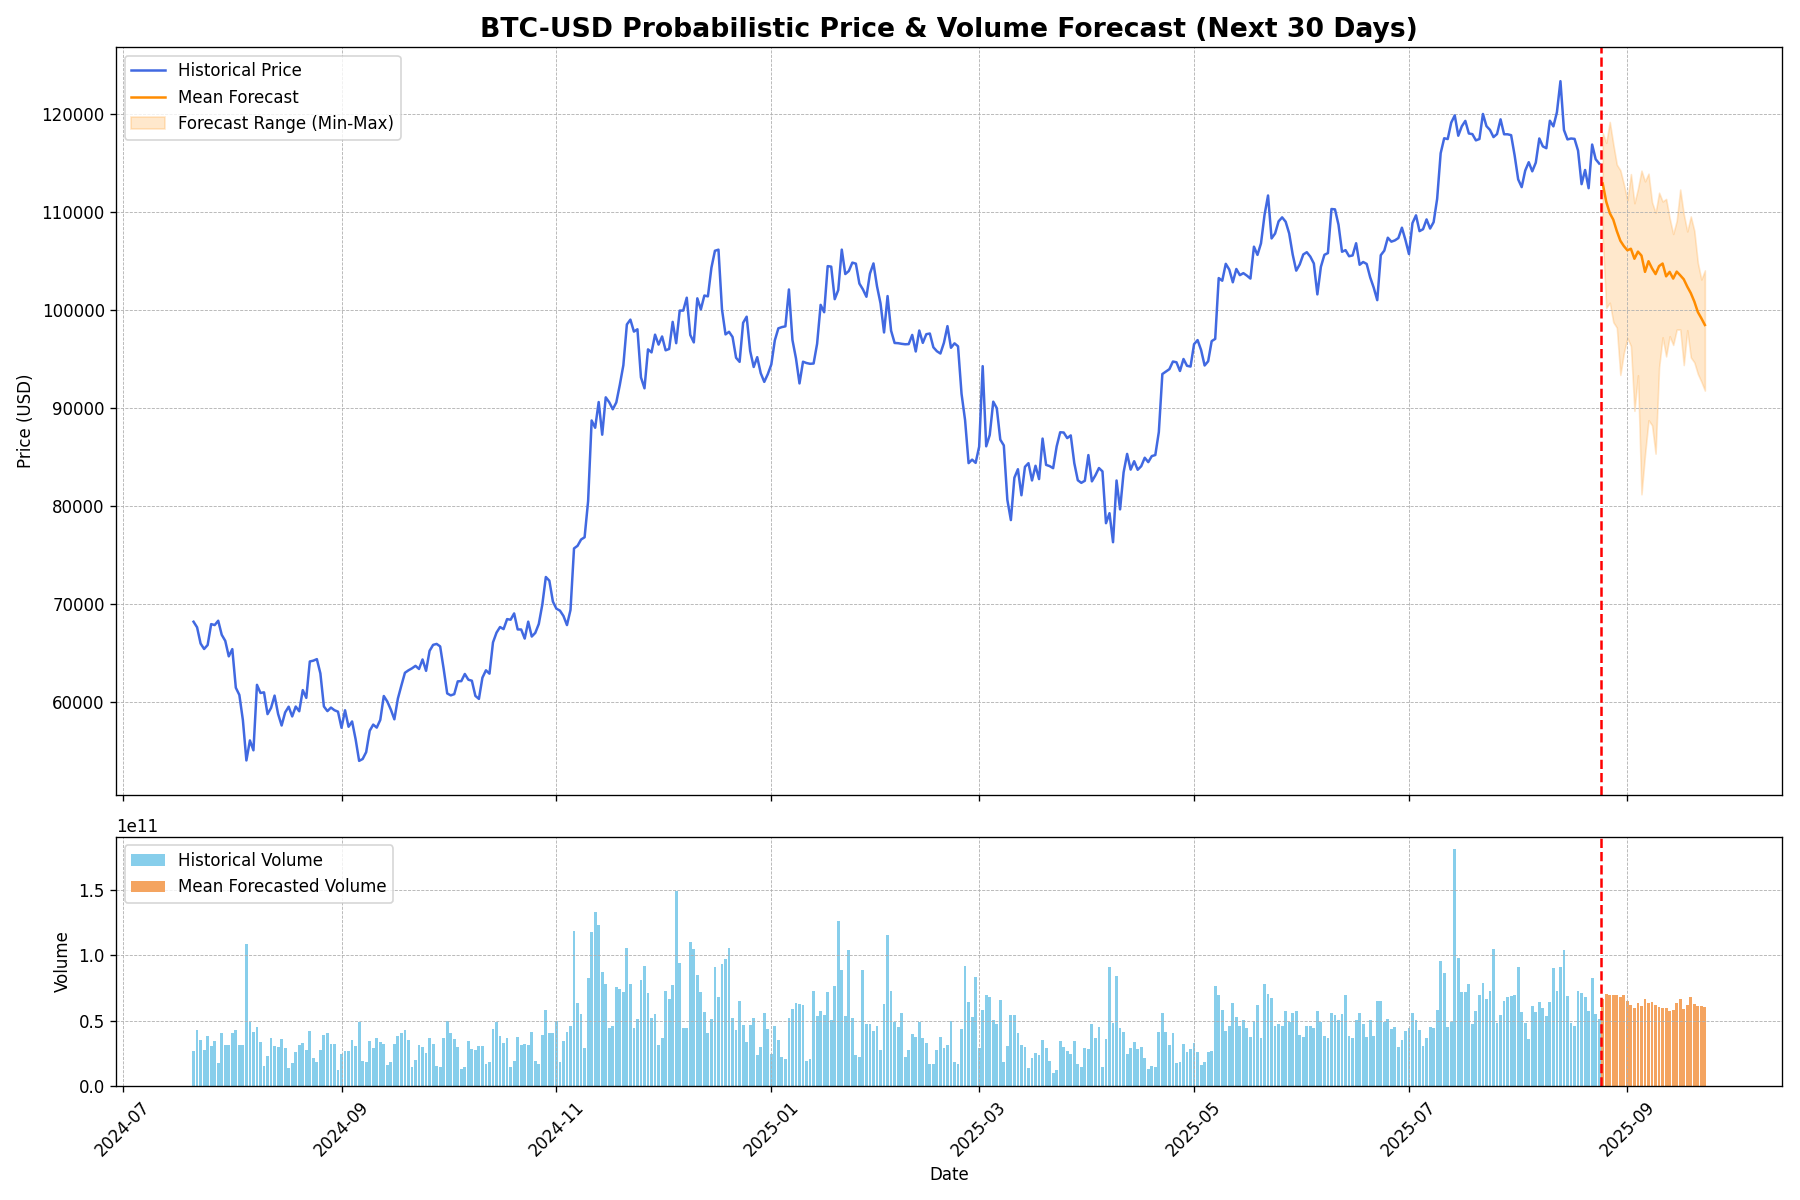
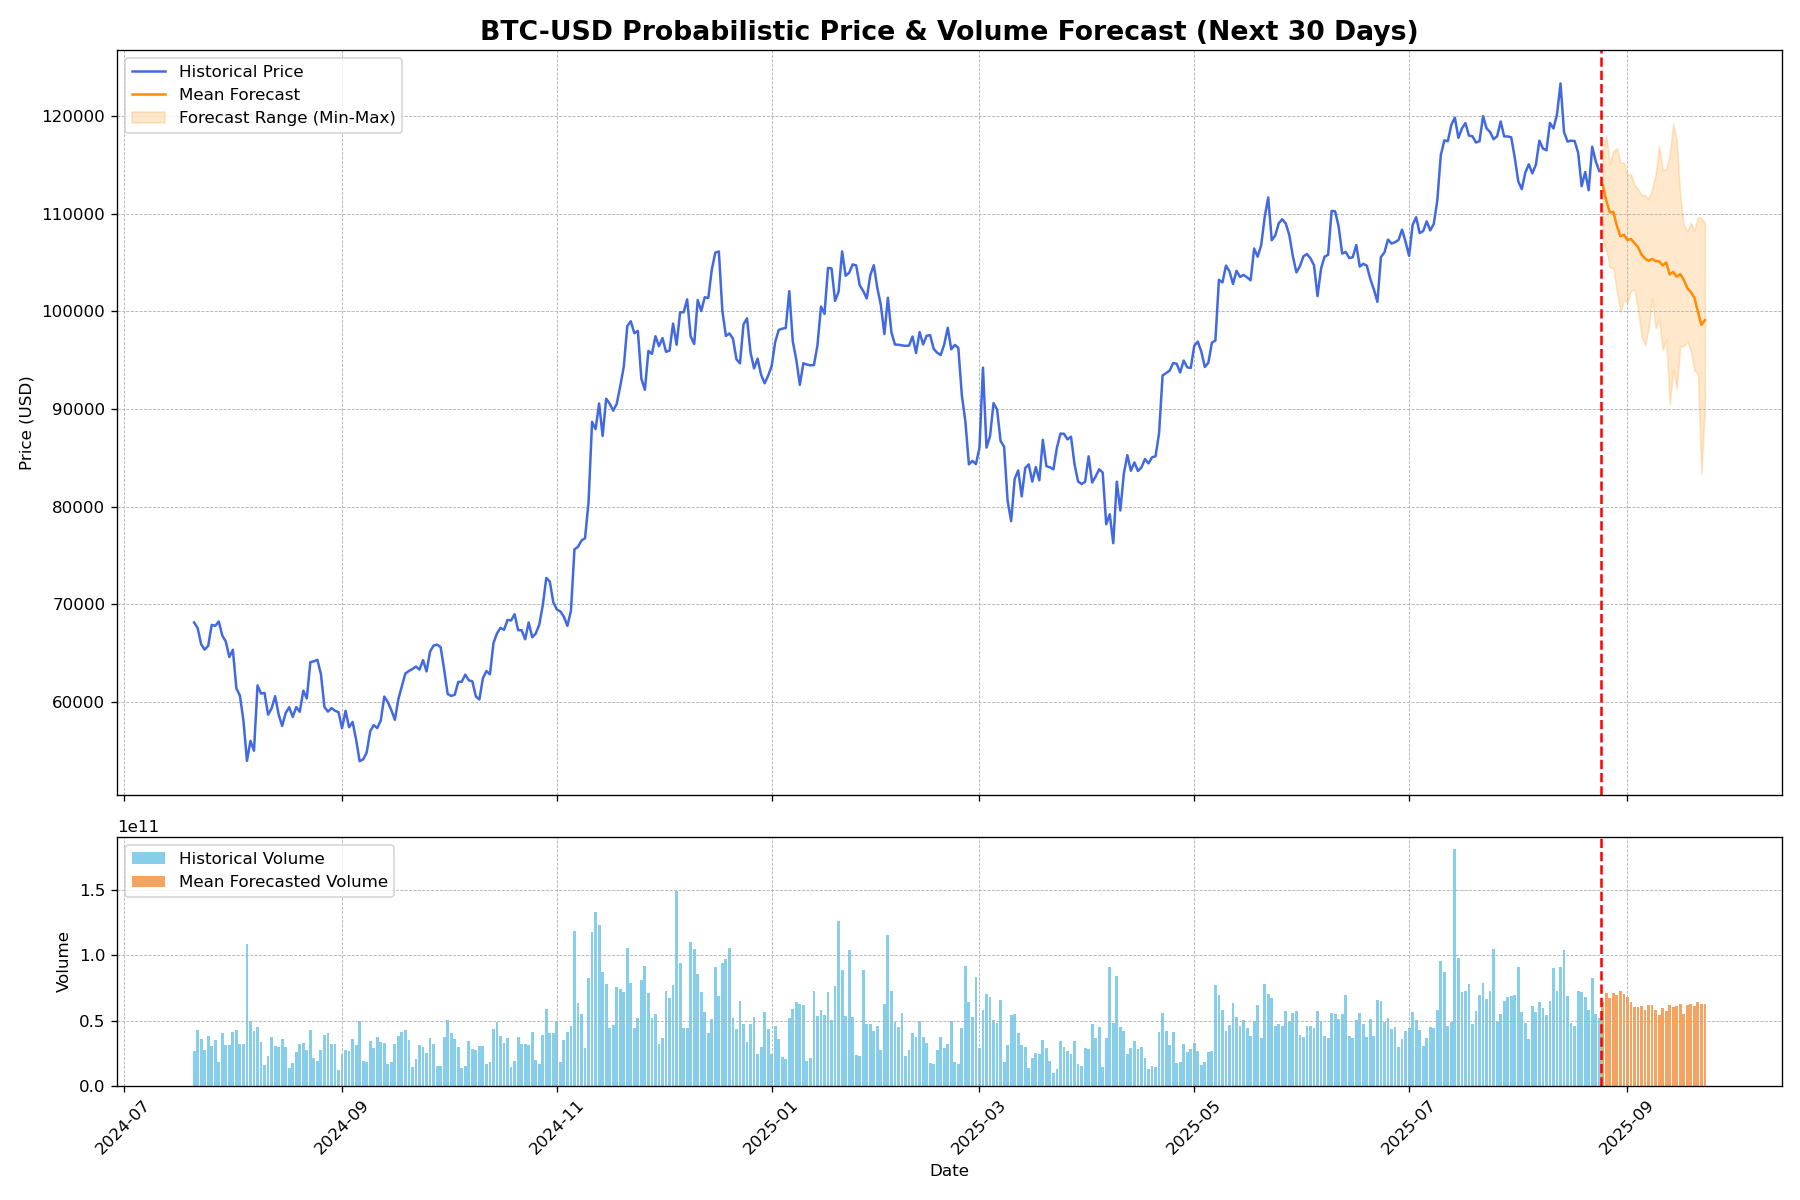
update

diff --git a/examples/yfinance_daily.py b/examples/yfinance_daily.py
@@ -17,8 +17,8 @@ import torch
 import yfinance as yf
 from tqdm import trange
 
-# 使用demo目录的model实现
-sys.path.append("../demo/")
+# 使用项目本地的model实现
+sys.path.append("../")
 from model import Kronos, KronosTokenizer, KronosPredictor
 
 # 忽略警告
@@ -101,7 +101,7 @@ def make_prediction(df, predictor):
         volume_preds_list = []
         
         for i in trange(Config["N_PREDICTIONS"], desc="Monte Carlo Sampling"):
-            close_pred, volume_pred = predictor.predict(
+            pred_df = predictor.predict(
                 df=x_df, 
                 x_timestamp=x_timestamp, 
                 y_timestamp=y_timestamp,
@@ -111,8 +111,8 @@ def make_prediction(df, predictor):
                 sample_count=1, 
                 verbose=False
             )
-            close_preds_list.append(close_pred.iloc[:, 0])
-            volume_preds_list.append(volume_pred.iloc[:, 0])
+            close_preds_list.append(pred_df['close'])
+            volume_preds_list.append(pred_df['volume'])
         
         print(f"Daily prediction completed in {time.time() - begin_time:.2f} seconds.")
         

diff --git a/examples/yfinance_hourly.py b/examples/yfinance_hourly.py
@@ -17,8 +17,8 @@ import torch
 import yfinance as yf
 from tqdm import trange
 
-# 使用demo目录的model实现
-sys.path.append("../demo/")
+# 使用项目本地的model实现
+sys.path.append("../")
 from model import Kronos, KronosTokenizer, KronosPredictor
 
 # 忽略警告
@@ -101,7 +101,7 @@ def make_prediction(df, predictor):
         volume_preds_list = []
         
         for i in trange(Config["N_PREDICTIONS"], desc="Monte Carlo Sampling"):
-            close_pred, volume_pred = predictor.predict(
+            pred_df = predictor.predict(
                 df=x_df, 
                 x_timestamp=x_timestamp, 
                 y_timestamp=y_timestamp,
@@ -111,8 +111,8 @@ def make_prediction(df, predictor):
                 sample_count=1, 
                 verbose=False
             )
-            close_preds_list.append(close_pred.iloc[:, 0])
-            volume_preds_list.append(volume_pred.iloc[:, 0])
+            close_preds_list.append(pred_df['close'])
+            volume_preds_list.append(pred_df['volume'])
         
         print(f"Main prediction completed in {time.time() - begin_time:.2f} seconds.")
         
